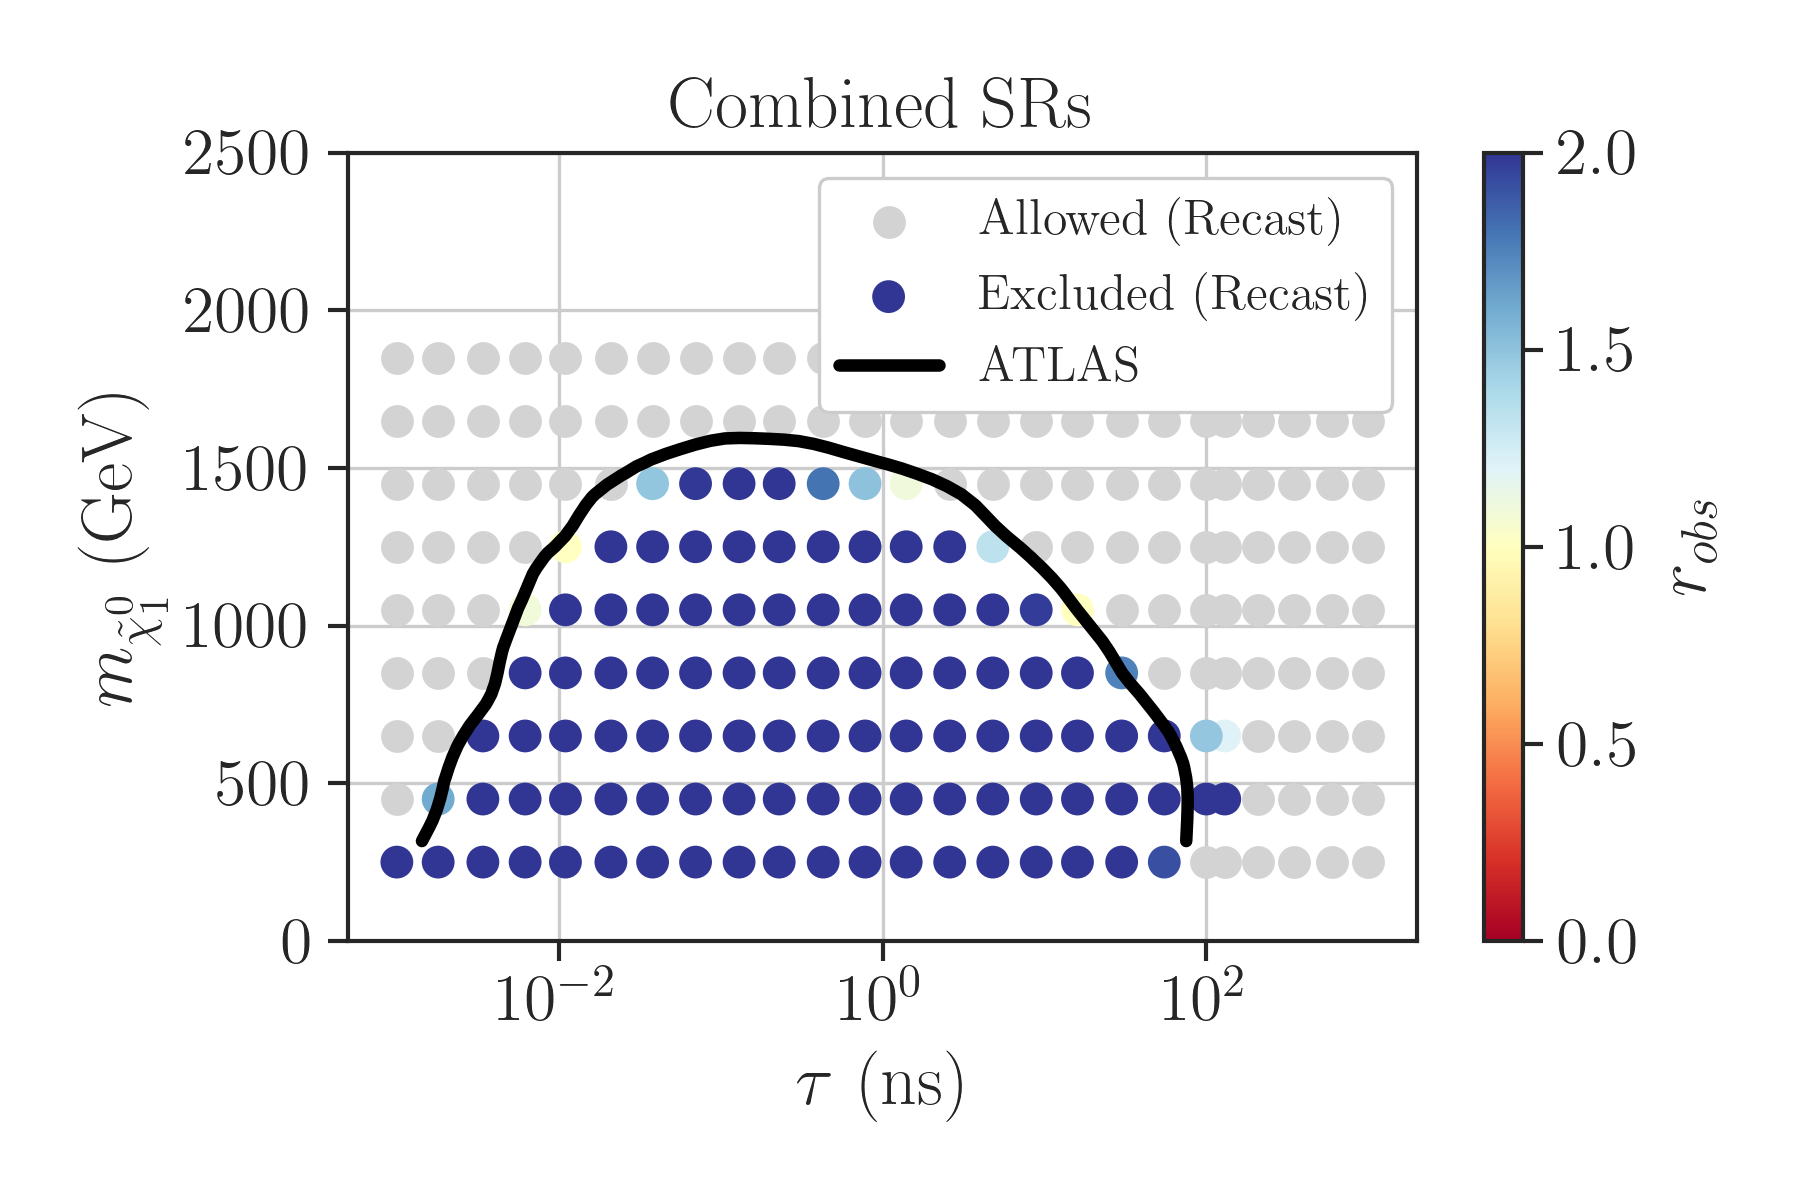
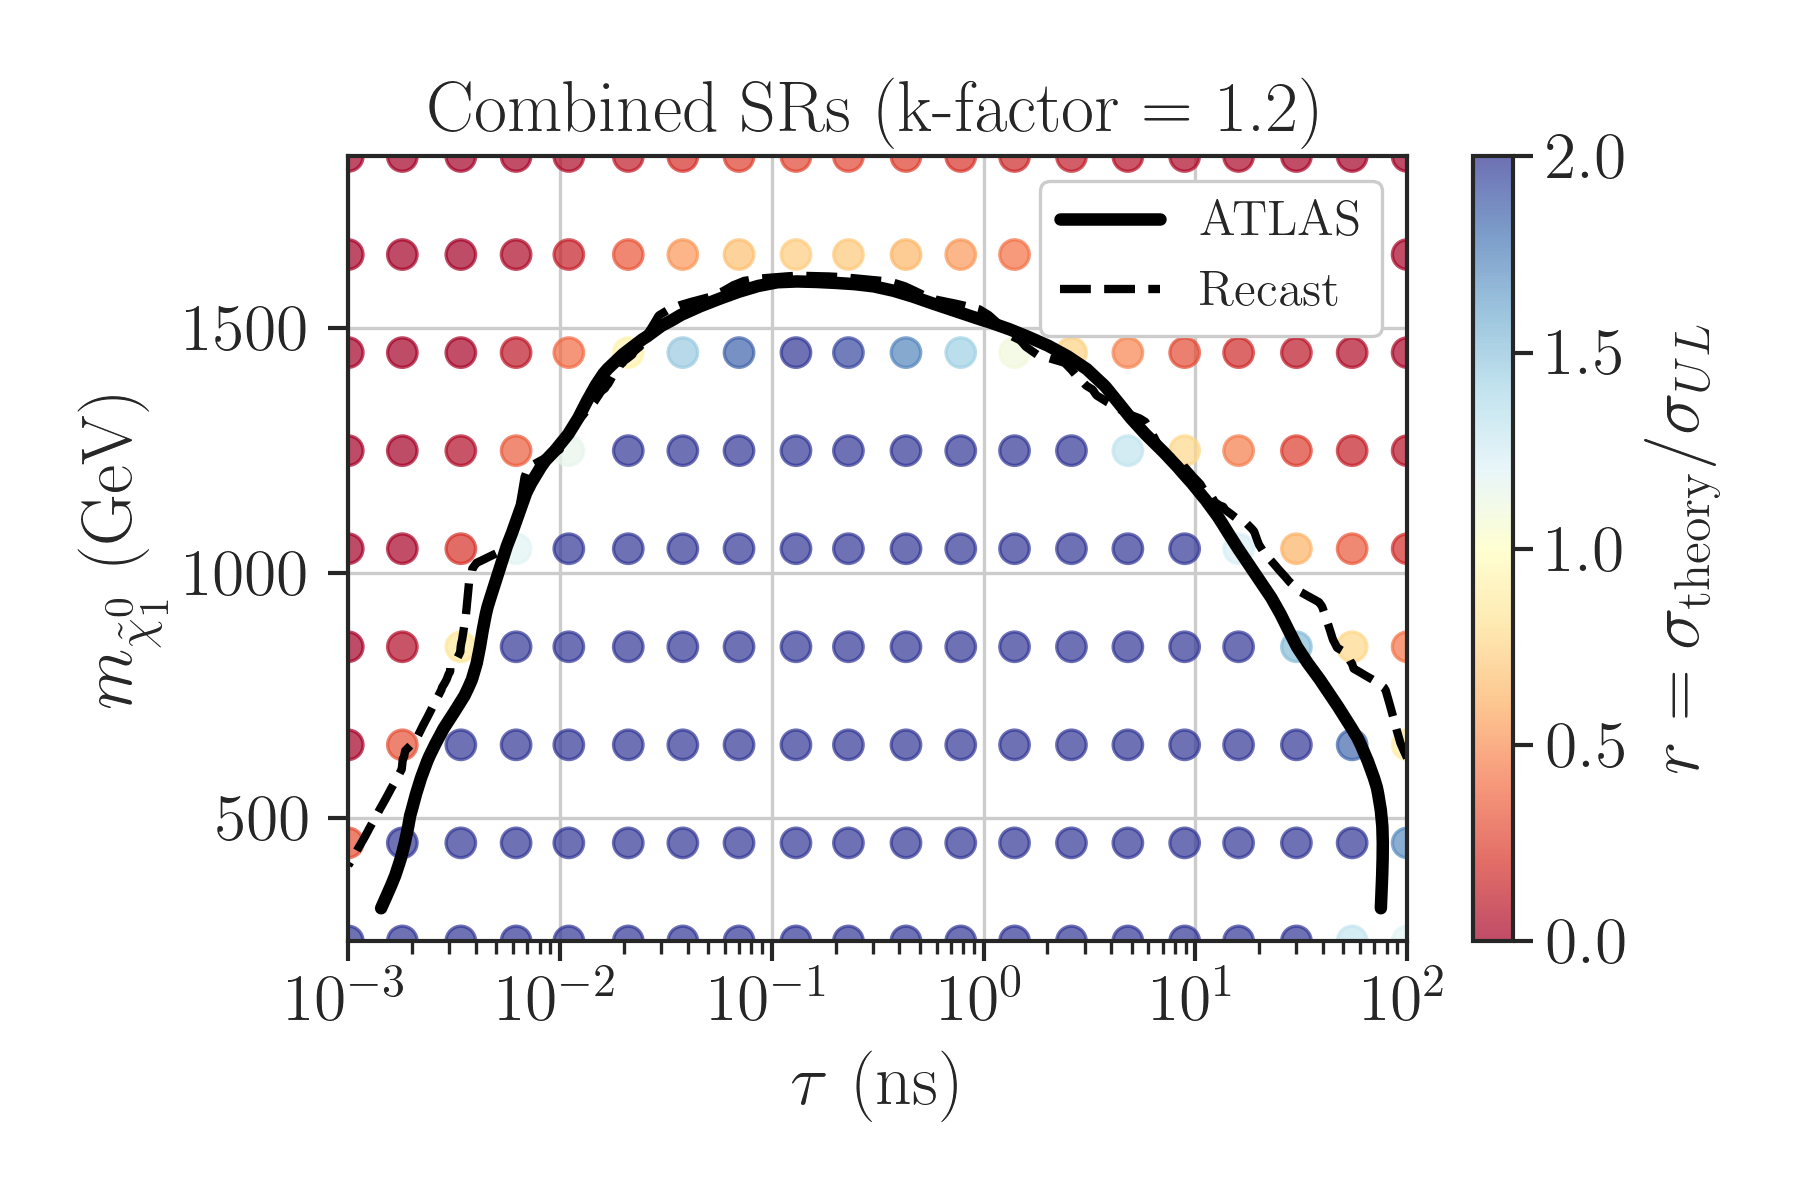
Updated README

diff --git a/DisplacedVertices/ATLAS-SUSY-2018-13/README.md b/DisplacedVertices/ATLAS-SUSY-2018-13/README.md
@@ -4,17 +4,20 @@
 [Andre Lessa](mailto:andre.lessa@ufabc.edu.br)
 
 This repository holds the main code for recasting the 13 TeV ATLAS search for displaced vertices
- ([ATLAS-SUSY-2018-13](https://atlas.web.cern.ch/Atlas/GROUPS/PHYSICS/PAPERS/SUSY-2018-13/))
+and multiple jets ([ATLAS-SUSY-2018-13](https://atlas.web.cern.ch/Atlas/GROUPS/PHYSICS/PAPERS/SUSY-2018-13/))
 using the efficiency grids  for event and vertex reconstruction selection provided [here](https://atlas.web.cern.ch/Atlas/GROUPS/PHYSICS/PAPERS/SUSY-2018-13/hepdata_info.pdf).
 
-## Pre-Requisites and Installation ##
+
+
+## Pre-Requisites ##
 
 The following pre-requisites must be installed before compiling the main code:
 
   * [MadGraph5](https://launchpad.net/mg5amcnlo/)
-  * [Delphes](https://cp3.irmp.ucl.ac.be/projects/delphes)[^1]
+  * [Modified Delphes](./DelphesLLP.tar.gz)
   * [Pythia8](https://pythia.org/)
-  * [HepMC](http://hepmc.web.cern.ch/hepmc/)
+
+## Installation ##
 
 Running:
 
@@ -22,26 +25,26 @@ Running:
 ./installer.sh
 ```
 
-Will try to fetch the required packages and install them in the current folder.
-*Note that a modified version of Delphes should be installed using [../../Delphes_LLP/DelphesLLP.tar.gz](../../Delphes_LLP/DelphesLLP.tar.gz)*
+Should install most of the relevant packages.
 The LHAPDF, Pythia8 and Delphes directories must be included in the library and root include paths.
 This can be done running:
 
 ```
 source setenv.sh
 ```
-
 ## Running ##
 
-The recasting is based on the Delphes output generated by running MadGraph/Pythia/Delphes.
-Note that the Delphes card must define the PDG codes for the LLPs in the LLPFilter block, so the relevant information is stored in the Delphes output. An example can be found [here](./validation/Cards/chargino/delphes_card_chargino).
-
-
-The event yields and recasting info can then be obtained running:
+The recasting accepts ROOT files generated by the modified Delphes version provided in this repository.
+Examples of Delphes cards can be found in the [validation/Cards](./validation/Cards) folder.
+*Note that the LLP PDG ids have to be defined in the BSMFilter block of the delphes card, so the required
+LLP information is stored in the ROOT file*.
+The main recasting code accepts the following options:
 
 ```
-usage: atlas_susy_2018_13_Recast.py [-h] -f INPUTFILE [INPUTFILE ...] [-o OUTPUTFILE] [-n] [-m MODEL] [-v VERBOSE]
+usage: atlas_susy_2018_13_Recast.py [-h] -f INPUTFILE [INPUTFILE ...] [-o OUTPUTFILE] [-A] [-m MODEL] [-U] [-v VERBOSE]
 
+Run the recasting for ATLAS-SUSY-2018-13 using one or multiple Delphes ROOT files as input. If multiple files are given as argument, add them (the samples weights will be normalized if -n is given).
+Store the cutflow and SR bins in a pickle (Pandas DataFrame) file.
 
 options:
   -h, --help            show this help message and exit
@@ -49,18 +52,26 @@ options:
                         path to the ROOT event file(s) generated by Delphes.
   -o OUTPUTFILE, --outputFile OUTPUTFILE
                         path to output file storing the DataFrame with the recasting data. If not defined, will use the name of the first input file
-  -n, --normalize       If set, the input files will be considered to refer to multiple samples of the same process and their weights will be normalized.
+  -A, --add             If set, the input files will be considered to refer to samples of the orthogonal processes and their weights will be added.
   -m MODEL, --model MODEL
-                        Defines which model should be considered for extracting model parameters (strong,ewk,gluino).
+                        Defines which model should be considered for extracting model parameters (strong,ewk,gluino,sbottom).
+  -U, --update          If the flag is set only the model points containing data newer than the dataframe will be read.
   -v VERBOSE, --verbose VERBOSE
                         verbose level (debug, info, warning or error). Default is info
-
 ```
-
-where model is used to fetch the relevant model parameters depending on the scenario (stau, wino or gluino).
+where model is used to fetch the relevant model parameters depending on the scenario (ewk or strong production).
 This information is used only for conveniently storing the model parameters (such as the proper lifetime) along with the recasting info.
 The user can easily modify the [helper.py](./helper.py) code for other models.
-The output is a pickle file containing a Pandas DataFrame with the model parameters and recasting output.
+
+
+The basic required input is a Delphes ROOT file.
+For instance, running:
+
+```
+./atlas_susy_2018_13_Recast.py -f <root file>
+```
+will produce a pickle file containing a Pandas DataFrame with a simplified cutflow and the number of events in each signal region.
+For a detailed cutflow the user can run [atlas_susy_2018_13_CutFlow.py](atlas_susy_2018_13_CutFlow.py) with similar options.
 
 
 For combining results from multiple model points into a single DataFrame, run:
@@ -81,7 +92,7 @@ The result is again a DataFrame, but now including an upper limit column.
 
 ## Validation
 
-The validation of the recasting code was done using the Wino (Chargino), Stau and Gluino benchmarks considered by ATLAS.
+The validation of the recasting code was done using the electroweak (Ewk) and gluino (Strong) benchmarks considered by ATLAS.
 
 The scan over the parameter space can be conveniently done running:
 
@@ -92,62 +103,27 @@ where basic required input is defined [parameter file](./validation/scan_paramet
 The output is a Delphes ROOT file for each model point.
 
 The MadGraph, Pythia and Delphes cards for each scenario can be found in [./validation/Cards](./validation/Cards/).
-The recasting results and plotting scripts can be found in the folders: [chargino_results](./validation/chargino_results), [stau_results](./validation/stau_results) and [gluino_results](./validation/gluino_results).
+The recasting results and plotting scripts can be found in the folders: [ewk_results](./validation/ewk_results) and [strong_results](./validation/stong_results).
 
 ## Validation ##
 
 ### Electroweak Scenario
 
- Below we show the cut-flow comparison for electroweak production: values correspond to Recast (ATLAS) acceptance and final acceptance times efficiency.
+A comparison between the official ATLAS exclusion curve and the one
+obtained by this recasting code is shown below:
 
-|                              |               |               |               |               |
-|:-----------------------------|:--------------|:--------------|:--------------|:--------------|
-| $m_{\tilde \chi_1^0} (GeV)$  | 500.0         | 500.0         | 1300.0        | 1300.0        |
-| $\tau(\tilde \chi_1^0) (ns)$ | 0.1           | 1.0           | 0.1           | 1.0           |
-| Total                        | 1.0           | 1.0           | 1.0           | 1.0           |
-| Jet selection                | 0.502 (0.495) | 0.513 (0.501) | 0.984 (0.968) | 0.986 (0.985) |
-| $R_{xy},z <$ 300 mm          | 0.502 (0.495) | 0.416 (0.410) | 0.984 (0.968) | 0.924 (0.921) |
-| $R_{DV} > 4$ mm              | 0.465 (0.465) | 0.403 (0.398) | 0.865 (0.859) | 0.905 (0.899) |
-| $d_0 > 2$ mm                 | 0.464 (0.465) | 0.402 (0.398) | 0.863 (0.859) | 0.905 (0.899) |
-| $nTracks >= 5$               | 0.464 (0.465) | 0.402 (0.398) | 0.863 (0.859) | 0.905 (0.899) |
-| mDV > 10 GeV                 | 0.464 (0.465) | 0.402 (0.398) | 0.863 (0.859) | 0.905 (0.899) |
-| final Acc*Eff                | 0.288 (0.311) | 0.142 (0.143) | 0.104 (0.122) | 0.080 (0.083) |
+<img src="validation/ewk_results/ewk_Fig11.png" width="400" height="270">
 
-
-A comparison between the official ATLAS 95\% C.L. exclusion curve for the wino scenario and the one obtained using this recasting code is shown below:
-
-
-![Alt text](validation/chargino_results/chargino_fig17a.png?raw=true "Chargino Validation Plot")
-
-Validation of the acceptances and efficiencies for all the benchmark points can be found in [this notebook](./validation/chargino_results/validation_CharginoTables.ipynb)
+The results combine both signal regions (High PT and Trackless) assuming they are fully uncorrelated.
 
 ### Strong Scenario
 
+A comparison between the official ATLAS exclusion curve and the one
+obtained by this recasting code is shown below:
 
- Below we show the cut-flow comparison for strong production: values correspond to Recast (ATLAS) acceptance and final acceptance times efficiency.
+<img src="validation/strong_results/strong_Fig12.png" width="400" height="270">
 
-
-|                              |               |               |               |               |
-|:-----------------------------|:--------------|:--------------|:--------------|:--------------|
-| $m_{\tilde g} (GeV)$         | 2000.0        | 2000.0        | 2400.0        | 2000.0        |
-| $m_{\tilde \chi_1^0} (GeV)$  | 850.0         | 50.0          | 200.0         | 1250.0        |
-| $\tau(\tilde \chi_1^0) (ns)$ | 0.01          | 0.1           | 1.0           | 10.0          |
-| Total                        | 1.0           | 1.0           | 1.0           | 1.0           |
-| Jet selection                | 0.999 (0.999) | 0.967 (0.966) | 0.985 (0.972) | 0.999 (0.961) |
-| $R_{xy},z <$ 300 mm          | 0.999 (0.999) | 0.788 (0.787) | 0.442 (0.447) | 0.311 (0.317) |
-| $R_{DV} > 4$ mm              | 0.298 (0.296) | 0.772 (0.770) | 0.434 (0.438) | 0.304 (0.309) |
-| $d_0 > 2$ mm                 | 0.296 (0.296) | 0.767 (0.756) | 0.433 (0.437) | 0.304 (0.309) |
-| $nTracks >= 5$               | 0.296 (0.296) | 0.766 (0.755) | 0.433 (0.437) | 0.304 (0.309) |
-| mDV > 10 GeV                 | 0.296 (0.296) | 0.760 (0.747) | 0.433 (0.437) | 0.304 (0.309) |
-| final Acc*Eff                | 0.274 (0.278) | 0.140 (0.144) | 0.112 (0.115) | 0.090 (0.092) |
-
-
-A comparison between the official ATLAS 95\% C.L. exclusion curve for the stau scenario and the one obtained using this recasting code is shown below:
-
-
-![Alt text](validation/stau_results/stau_fig17b.png?raw=true "Stau Validation Plot")
-
-Validation of the acceptances and efficiencies for all the benchmark points can be found in [this notebook](./validation/stau_results/validation_StauTables.ipynb)
+The results above consider only the best signal region (High PT).
 
 
 [^1]: A modified version of Delphes needs to be installed, which includes a module for filtering LLPs

diff --git a/DisplacedVertices/ATLAS-SUSY-2016-08_ALessa/README.md b/DisplacedVertices/ATLAS-SUSY-2016-08_ALessa/README.md
@@ -15,6 +15,7 @@ The following pre-requisites must be installed before compiling the main code:
 
   * [MadGraph5](https://launchpad.net/mg5amcnlo) with [Pythia8](https://pythia.org/) installed
   * [Modified Delphes](./DelphesLLP.tar.gz)
+  * [Pythia8](https://pythia.org/)
   
 ## Installation ##
 
@@ -24,7 +25,7 @@ Running:
 ./installer.sh
 ```
 
-Should install most of the relevant (non-Mathematica) packages.
+Should install most of the relevant packages.
 The LHAPDF, Pythia8 and Delphes directories must be included in the library and root include paths.
 This can be done running:
 
@@ -57,6 +58,11 @@ options:
                         verbose level (debug, info, warning or error). Default is info
 
 ```
+where model is used to fetch the relevant model parameters depending on the scenario (ewk or strong production).
+This information is used only for conveniently storing the model parameters (such as the proper lifetime) along with the recasting info.
+The user can easily modify the [helper.py](./helper.py) code for other models.
+
+
 
 The basic required input is a Delphes ROOT file.
 For instance, running:
@@ -64,17 +70,38 @@ For instance, running:
 ```
 ./atlas_susy_2016_08_Recast.py -f <root file>
 ```
-will produce a pickle file contaning a Pandas DataFrame with a simplified cutflow and the number of events in each signal region.
+will produce a pickle file containing a Pandas DataFrame with a simplified cutflow and the number of events in each signal region.
+
+For combining results from multiple model points into a single DataFrame, run:
+
+```
+./atlas_susy_2016_08_CombineData.py -f <pickle file1> <pickle file2> ... -o <output file>
+```
+
+Finally, for computing upper limits:
+
+```
+./atlas_susy_2016_08_UpperLimits.py -f <pickle file>  -o <output file>
+```
+
 
 ## Validation ##
 
 
-The validation of the signal efficiencies (efficiency times acceptance)
-for direct production of staus can be found in the [validation folder](validation).
-The output (.eff files) was generated using the SLHA files and pythia8.cfg and parameters.ini files stored in the folder.
-For instance, the following validation plot can be generated running this [ipython notebook](validation/validation-mlsp100.ipynb):
+The validation of the recasting code was done using the long-lived gluino benchmarks considered by ATLAS.
 
- * mgluino = 1.4 TeV, mLSP = 100 GeV:
+The scan over the parameter space can be conveniently done running:
+
+```
+./runScanMG5.py -p <parameters file>
+```
+where basic required input is defined [parameter file](./validation/scan_parameters_gluino.ini) specifying the input cards model parameters.
+The output is a Delphes ROOT file for each model point.
+
+The MadGraph, Pythia and Delphes cards can be found in [./validation/Cards](./validation/Cards/).
+The recasting results and plotting scripts can be found in the [validation folder](./validation/).
+
+* mgluino = 1.4 TeV, mLSP = 100 GeV:
 
 ![Alt text](validation/validationPlot_mlsp100.png?raw=true "Validation Plot")
 
